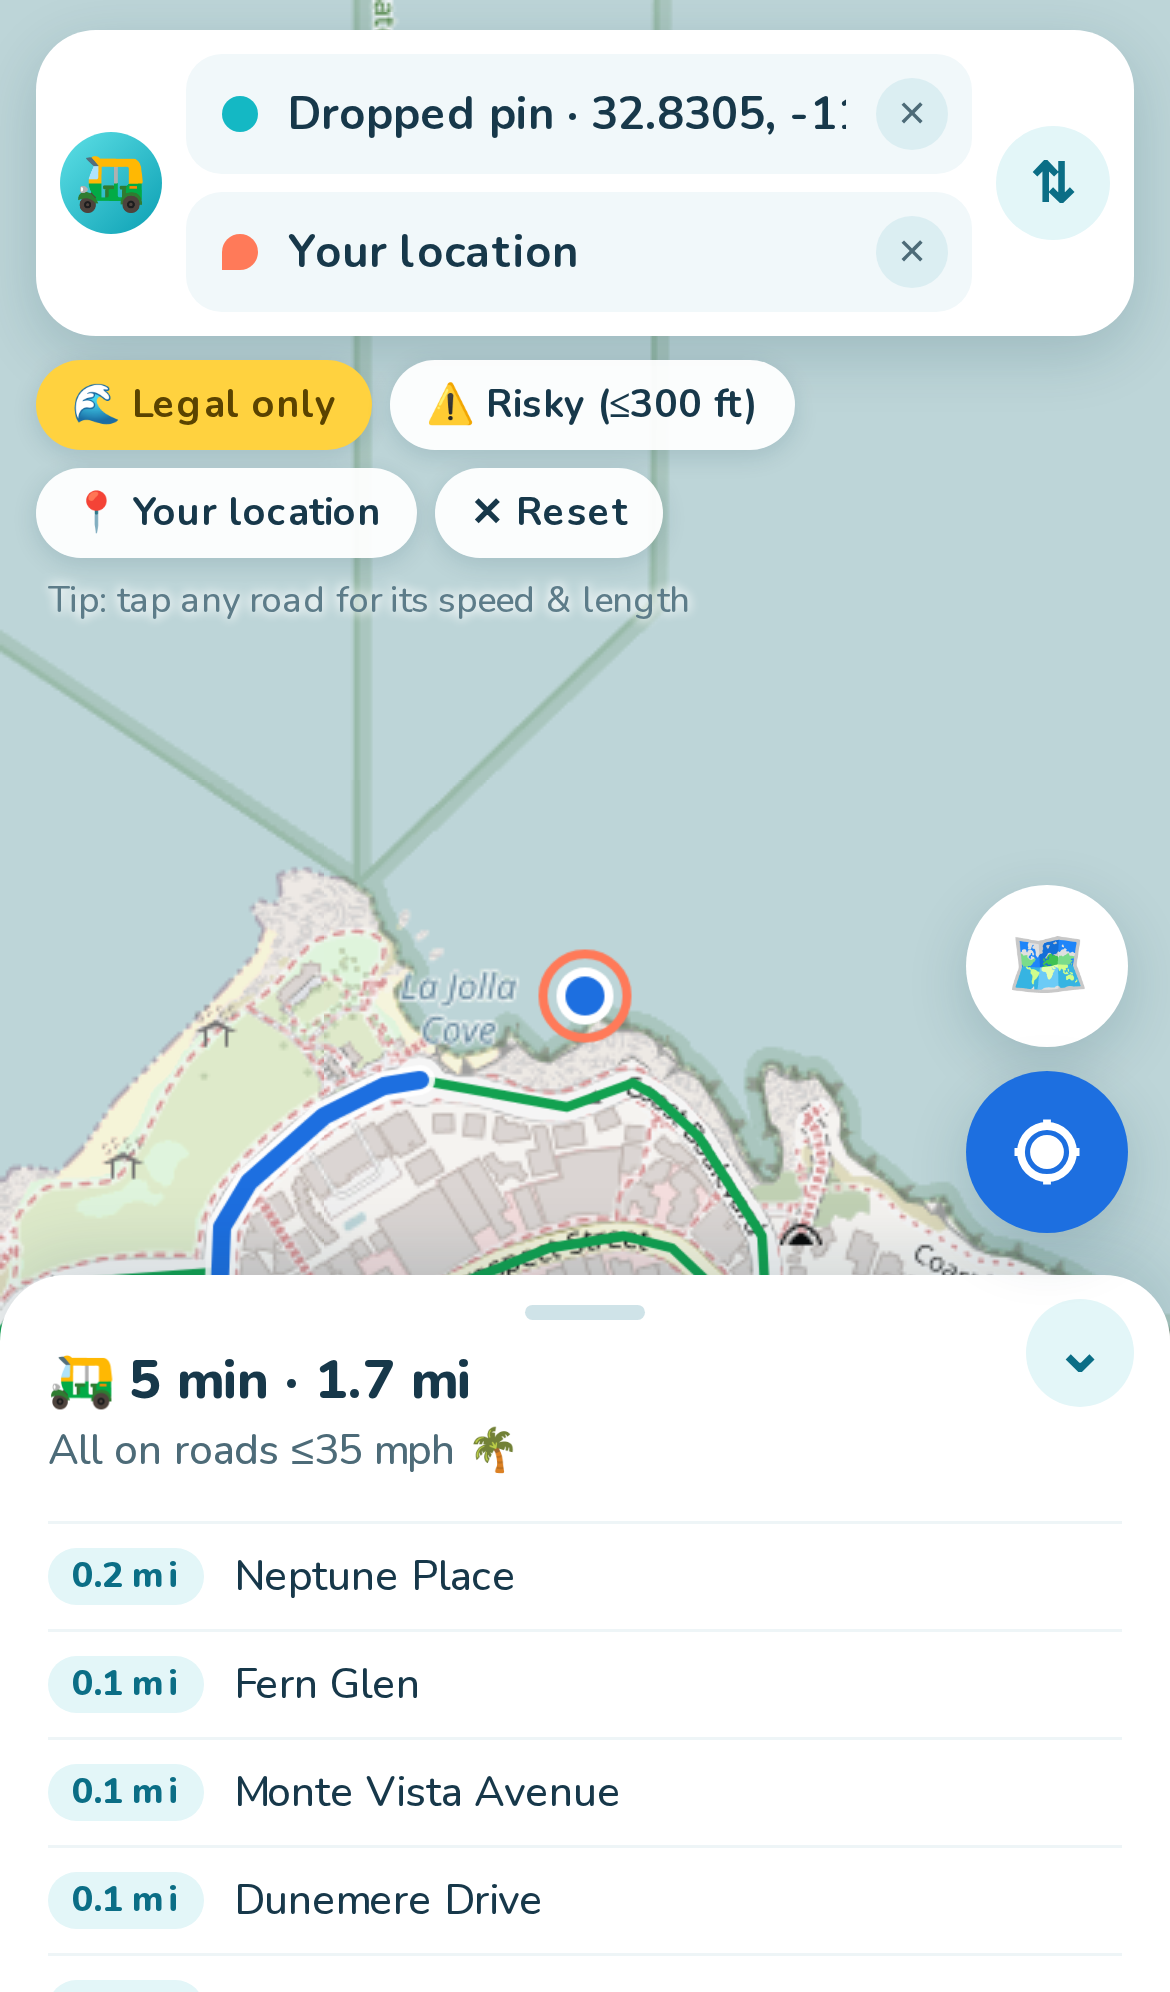
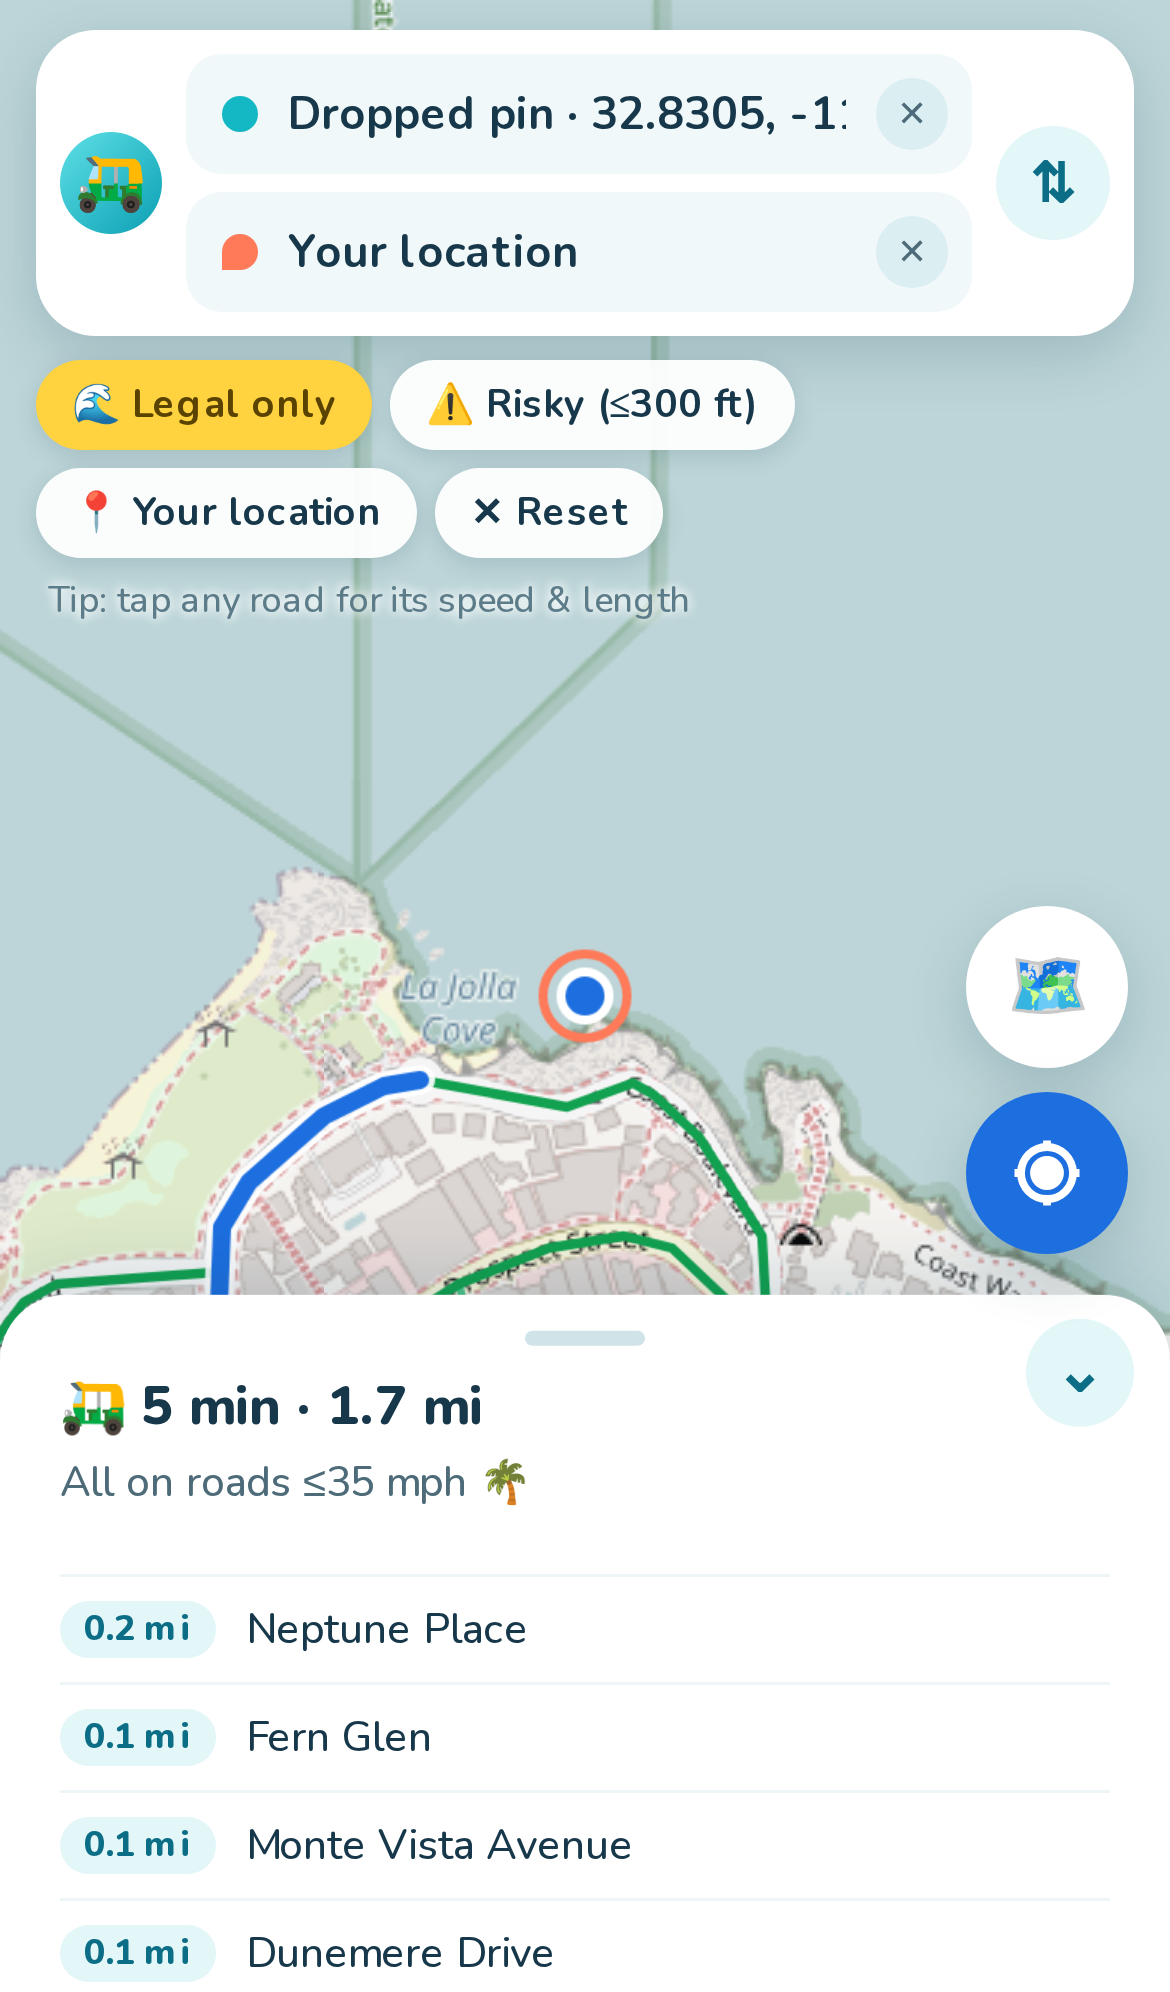
Lighter bottom sheet: 35vh default on mobile, floating card on desktop, fine print collapsed

Changed region(s): [[0.0, 0.4357, 1.0, 0.747], [0.2154, 0.7781, 0.5538, 0.996], [0.0308, 0.7781, 0.1846, 1.0]]

diff --git a/public/index.html b/public/index.html
@@ -52,6 +52,12 @@ details{margin-top:10px}summary{font:800 13px Nunito;color:var(--deep);list-styl
 .sq{flex:none;width:38px;height:38px;border-radius:50%;border:0;background:#e3f6f8;color:var(--deep);font:800 18px Nunito}
 #help{margin:6px 4px 0;font-size:12px;color:#5d7c89;text-shadow:0 0 4px #fff,0 0 4px #fff}
 .pbtn{flex:1;border:0;border-radius:10px;padding:6px 8px;background:#e3f6f8;color:#0b6e86;font:800 12px Nunito}
+#shead{padding:10px 20px 8px}#sbody{padding:4px 20px calc(var(--sab) + 24px)}#sub{margin-top:4px;line-height:1.4}#legend{margin-top:12px;gap:12px}details{margin-top:14px}#tip{margin-top:14px}#showloc{margin:6px 20px 10px!important}
+@media (min-width:900px){
+#top{right:auto;width:380px;left:20px;top:20px}
+#sheet{left:20px;right:auto;bottom:20px;width:380px;border-radius:22px;max-height:45vh;box-shadow:0 10px 30px rgba(11,60,80,.22)}
+#sheet .grab{display:none}#sbody{min-height:0}#shead{cursor:default}
+.fab{right:20px}.leaflet-control-attribution{margin-bottom:0!important}}
 </style></head><body>
 <div id="map"></div>
 <section id="about" style="position:absolute;width:1px;height:1px;overflow:hidden;clip:rect(0 0 0 0)"><h1>Golf Cart Map: legal golf cart and LSV routes in coastal San Diego</h1>
@@ -69,9 +75,9 @@ details{margin-top:10px}summary{font:800 13px Nunito;color:var(--deep);list-styl
 <div id="title">🏖 Golf Cart Maps</div><div id="sub">Loading roads…</div></div><button class="btn" id="showloc" style="margin:4px 16px 8px;flex:none">📍 Show my location</button><div id="sbody">
 <div id="steps"></div>
 <div class="btnrow" id="acts" style="display:none"><button class="btn alt" id="clr">✕ Reset</button><button class="btn" id="swap">⇅ Swap</button></div>
-<details id="more" open><summary>🗺 Legend, tips & fine print ▾</summary><div id="legend"><span><i class="sw" style="background:#12a150"></i>Posted ≤35</span><span><i class="sw" style="background:repeating-linear-gradient(90deg,#4cc38a 0 5px,transparent 5px 8px)"></i>Small road (assumed 25)</span><span><i class="sw" style="background:#e5484d"></i>40+ / major — avoid</span><span><i class="sw" style="background:#1d6fe0"></i>Route</span><span><i class="sw" style="background:#ffc400"></i>Risky stretch</span></div>
-<a id="tip" href="https://venmo.com/u/max-greenwald" target="_blank" rel="noopener">🎁 Enjoying the ride? <b>Tip the builder</b> on Venmo 🌴</a>
-<div id="disc"><b>Not legal advice.</b> OSM data is volunteer-maintained and can be wrong — posted signs and local rules always win. LSVs: no roads over 35 mph (CVC 21260); you may cross a faster road at a ~90° intersection between ≤35 roads. Risky mode shows short illegal stretches; drive them at your own risk. <span id="dmeta"></span></div></details>
+<div id="legend"><span><i class="sw" style="background:#12a150"></i>Posted ≤35</span><span><i class="sw" style="background:repeating-linear-gradient(90deg,#4cc38a 0 5px,transparent 5px 8px)"></i>Small road (assumed 25)</span><span><i class="sw" style="background:#e5484d"></i>40+ / major — avoid</span><span><i class="sw" style="background:#1d6fe0"></i>Route</span><span><i class="sw" style="background:#ffc400"></i>Risky stretch</span></div>
+<details id="more"><summary>🗺 Legend, tips & fine print ▾</summary>
+<div id="disc"><b>Not legal advice.</b> OSM data is volunteer-maintained and can be wrong — posted signs and local rules always win. LSVs: no roads over 35 mph (CVC 21260); you may cross a faster road at a ~90° intersection between ≤35 roads. Risky mode shows short illegal stretches; drive them at your own risk. <span id="dmeta"></span></div></details><a id="tip" href="https://venmo.com/u/max-greenwald" target="_blank" rel="noopener">🎁 Enjoying the ride? <b>Tip the builder</b> on Venmo 🌴</a>
 </div></div>
 <script src="https://unpkg.com/leaflet@1.9.4/dist/leaflet.js"></script>
 <script src="app.js"></script>

diff --git a/public/app.js b/public/app.js
@@ -157,11 +157,12 @@ fetch('data/index.json').then(r=>r.json()).then(async j=>{D={...j,segs:[],tileSe
 // ---- bottom sheet: pointer-driven, translateY snapping ----
 const sheet=$('sheet'),shead=$('shead');let snap='full';
 function vh(){return window.innerHeight}
-function sizeSheet(){sheet.style.height=Math.round(vh()*0.55)+'px'}
-function snaps(){const H=sheet.offsetHeight;return{full:0,half:Math.max(0,H-vh()*0.36),collapsed:Math.max(0,H-shead.offsetHeight-6)}}
+const DESK=()=>matchMedia('(min-width:900px)').matches;
+function sizeSheet(){sheet.style.height=DESK()?'':Math.round(vh()*0.85)+'px'}
+function snaps(){const H=sheet.offsetHeight,c=Math.max(0,H-shead.offsetHeight-6);if(DESK())return{full:0,half:0,collapsed:c};return{full:0,half:Math.max(0,H-vh()*0.35),collapsed:c}}
 let curY=0;
 function place(y){curY=y;sheet.style.transform=`translate3d(0,${y}px,0)`;const vis=sheet.offsetHeight-y;
- $('loc').style.bottom=(vis+14)+'px';$('lay').style.bottom=(vis+76)+'px';$('chev').textContent=snap==='collapsed'?'⌃':'⌄'}
+ if(DESK()){$('loc').style.bottom='24px';$('lay').style.bottom='88px'}else{$('loc').style.bottom=(vis+14)+'px';$('lay').style.bottom=(vis+76)+'px'}$('chev').textContent=snap==='collapsed'?'⌃':'⌄'}
 function setSnap(n){snap=n;place(snaps()[n])}
 window.setSnap=setSnap;window.getSnap=()=>snap;
 const ORDER=['collapsed','half','full'];
@@ -186,4 +187,4 @@ $('chev').addEventListener('click',e=>{e.stopPropagation();setSnap(snap==='colla
 L.DomEvent.disableClickPropagation(sheet);L.DomEvent.disableScrollPropagation(sheet);
 map.on('click',()=>{if(!routeG&&!from&&snap!=='collapsed')setSnap('collapsed')});
 addEventListener('resize',()=>{sizeSheet();setSnap(snap)});
-sizeSheet();sheet.style.transition='none';setSnap('full');requestAnimationFrame(()=>requestAnimationFrame(()=>sheet.style.transition=''));
+sizeSheet();sheet.style.transition='none';setSnap('half');requestAnimationFrame(()=>requestAnimationFrame(()=>sheet.style.transition=''));

diff --git a/public/sw.js b/public/sw.js
@@ -1,4 +1,4 @@
-const C='gcm-v13';
+const C='gcm-v14';
 self.addEventListener('install',e=>self.skipWaiting());
 self.addEventListener('activate',e=>e.waitUntil(caches.keys().then(ks=>Promise.all(ks.filter(k=>k!==C).map(k=>caches.delete(k)))).then(()=>self.clients.claim())));
 self.addEventListener('fetch',e=>{if(e.request.method!=='GET')return;e.respondWith(fetch(e.request).then(r=>{if(r.ok){const c=r.clone();caches.open(C).then(x=>x.put(e.request,c))}return r}).catch(()=>caches.match(e.request)))});

diff --git a/scripts/test_layout.py b/scripts/test_layout.py
@@ -1,0 +1,13 @@
+from playwright.sync_api import sync_playwright
+with sync_playwright() as p:
+    b=p.chromium.launch()
+    for name,kw in [("mobile",p.devices["iPhone 13"]),("desktop",{"viewport":{"width":1440,"height":900}})]:
+        pg=b.new_page(**kw);pg.goto("http://localhost:8765/");pg.wait_for_function("window.ready===true",timeout=120000);pg.wait_for_timeout(800)
+        r=lambda s:pg.evaluate(f"(()=>{{const r=document.querySelector('{s}').getBoundingClientRect();return [Math.round(r.left),Math.round(r.top),Math.round(r.width),Math.round(r.height)]}})()")
+        vis=lambda:pg.evaluate("innerHeight-document.getElementById('sheet').getBoundingClientRect().top")
+        print(name,"snap",pg.evaluate("getSnap()"),"sheet",r('#sheet'),"visible",vis(),"top",r('#top'),"loc",r('#loc'),"details open",pg.evaluate("more.open"))
+        pg.screenshot(path=f"/workspace/golfcart-maps/screenshot-{name}.png")
+        pg.evaluate("testRoute([32.8506,-117.2717],[32.8305,-117.2805]).then(()=>0)");pg.wait_for_timeout(3000)
+        pg.evaluate("setSnap('full');0");pg.wait_for_timeout(500);print(" full visible",vis(),"sbody scroll",pg.evaluate("[sbody.scrollHeight,sbody.clientHeight]"))
+        pg.screenshot(path=f"/workspace/golfcart-maps/screenshot-{name}-route.png")
+        pg.evaluate("setSnap('collapsed');0");pg.wait_for_timeout(500);print(" collapsed visible",vis())
